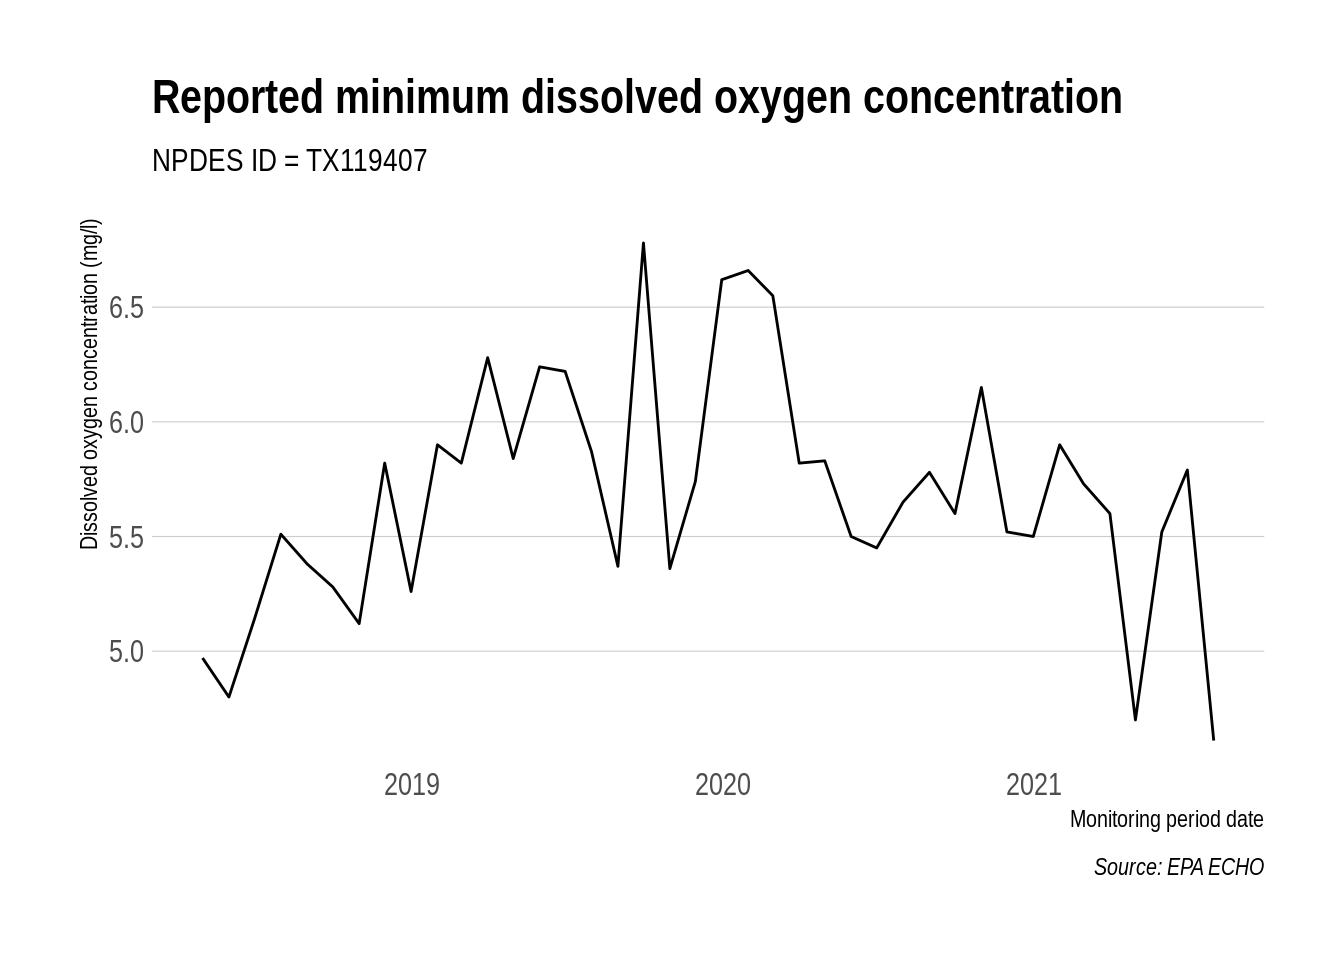
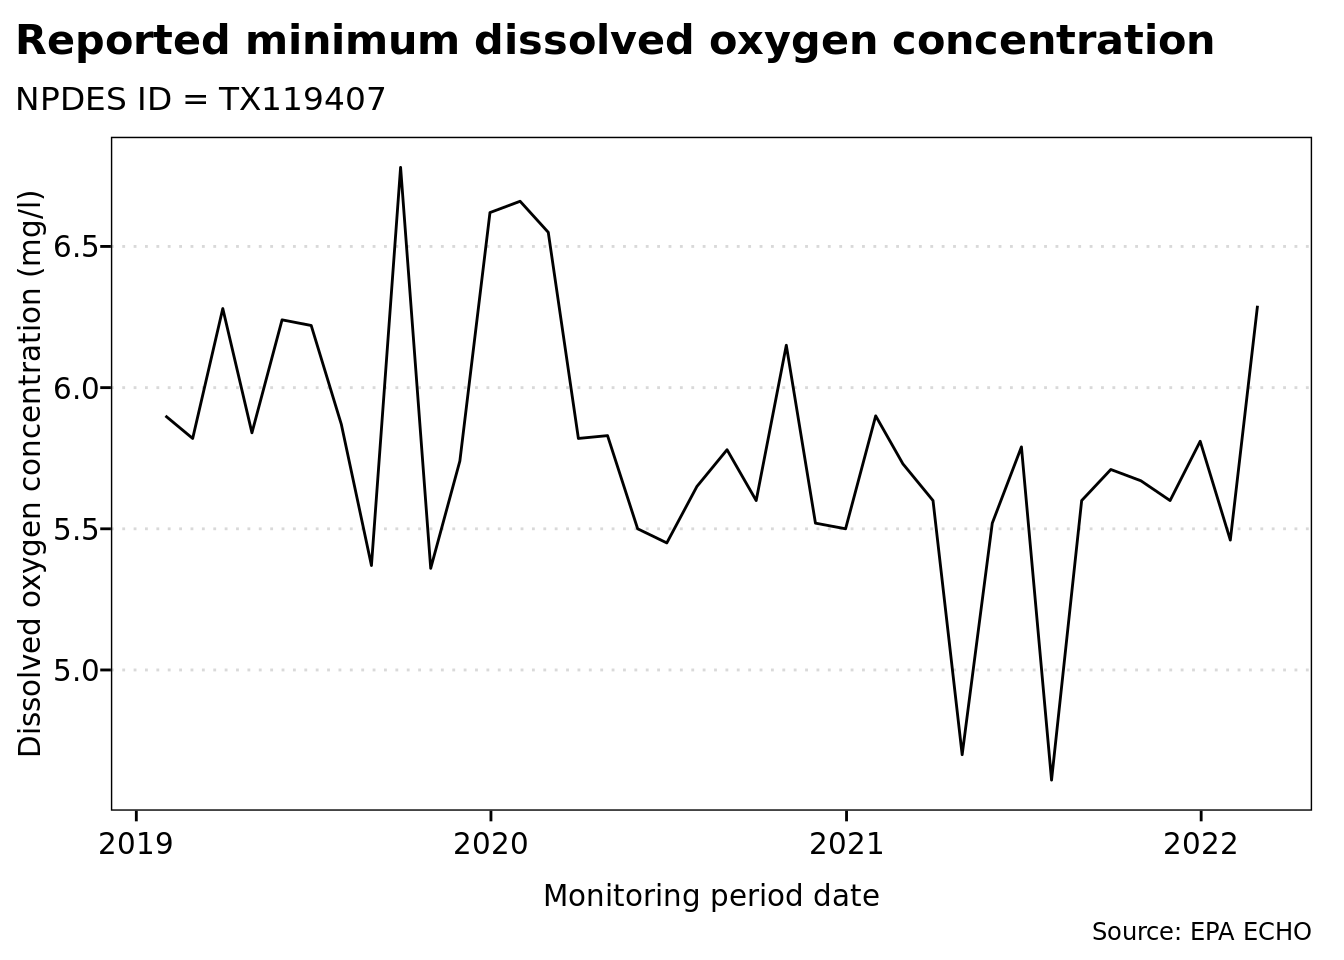
Re-build README.Rmd

diff --git a/README.md b/README.md
@@ -1,0 +1,273 @@
+<!-- README.md is generated from README.Rmd. Please edit that file -->
+
+# echor
+
+<!-- badges: start -->
+
+[![CRAN
+status](https://www.r-pkg.org/badges/version/echor)](https://cran.r-project.org/package=echor)
+
+[![R build
+status](https://github.com/mps9506/echor/workflows/R-CMD-check/badge.svg)](https://github.com/mps9506/echor/actions)
+[![Travis build
+status](https://travis-ci.org/mps9506/echor.svg?branch=master)](https://travis-ci.org/mps9506/echor)
+[![AppVeyor build
+status](https://ci.appveyor.com/api/projects/status/github/mps9506/echor?branch=master&svg=true)](https://ci.appveyor.com/project/mps9506/echor)
+[![Coverage
+status](https://codecov.io/gh/mps9506/echor/branch/master/graph/badge.svg)](https://codecov.io/github/mps9506/echor?branch=master)
+[![DOI](https://zenodo.org/badge/122131508.svg)](https://zenodo.org/badge/latestdoi/122131508)
+<!-- badges: end -->
+
+## Overview
+
+echor downloads wastewater discharge and air emission data for EPA
+permitted facilities using the [EPA ECHO API](https://echo.epa.gov/).
+
+## Installation
+
+echor is on CRAN:
+
+    install.packages("echor")
+
+Or install the development version from github:
+
+    remotes::install_github("mps9506/echor")
+
+## Usage
+
+[Getting
+started](https://mps9506.github.io/echor/articles/introduction.html)
+
+[Functions](https://mps9506.github.io/echor/reference/index.html)
+
+## Examples
+
+### Download information about facilities with an NPDES permit
+
+We can look up plants by permit id, bounding box, and numerous other
+parameters. I plan on providing documentation of available parameters.
+However, arguments can be looked up here:
+[get\_cwa\_rest\_services\_get\_facility\_info](https://echo.epa.gov/tools/web-services/facility-search-water#!/Facility_Information/get_cwa_rest_services_get_facility_info)
+
+    library(echor)
+
+    ## echoWaterGetFacilityInfo() will return a dataframe or simple features (sf) dataframe.
+
+    df <- echoWaterGetFacilityInfo(output = "df", 
+                                   xmin = '-96.387509', 
+                                   ymin = '30.583572', 
+                                   xmax = '-96.281422', 
+                                   ymax = '30.640008',
+                                   p_ptype = "NPD")
+
+    head(df)
+    #> # A tibble: 4 × 26
+    #>   CWPName            SourceID CWPStreet CWPCity CWPState CWPStateDistrict CWPZip
+    #>   <chr>              <chr>    <chr>     <chr>   <chr>    <chr>             <dbl>
+    #> 1 CARTER CREEK WWTP  TX00471… 2200 NOR… COLLEG… TX       09                77845
+    #> 2 CENTRAL UTILITY P… TX00027… 222 IREL… COLLEG… TX       09                77843
+    #> 3 HEAT TRANSFER RES… TX01065… 0.25MI S… COLLEG… TX       09                77845
+    #> 4 TURKEY CREEK WWTP  TX00624… 3000FT W… BRYAN   TX       09                77807
+    #> # … with 19 more variables: MasterExternalPermitNmbr <lgl>, RegistryID <dbl>,
+    #> #   CWPCounty <chr>, CWPEPARegion <chr>, FacDerivedHuc <dbl>, FacLat <dbl>,
+    #> #   FacLong <dbl>, CWPTotalDesignFlowNmbr <dbl>,
+    #> #   CWPActualAverageFlowNmbr <dbl>, ReceivingMs4Name <lgl>,
+    #> #   AssociatedPollutant <lgl>, MsgpPermitType <lgl>, CWPPermitStatusDesc <chr>,
+    #> #   CWPPermitTypeDesc <chr>, CWPIssueDate <date>, CWPEffectiveDate <date>,
+    #> #   CWPExpirationDate <date>, CWPSNCStatusDate <date>, …
+
+The ECHO database can provide over 270 different columns. echor returns
+a subset of these columns that should work for most users. However, you
+can specify what data you want returned. Use `echoWaterGetMeta()` to
+return a dataframe with column numbers, names, and descriptions to
+identify the columns you want returned. Then include the column numbers
+as a comma separated string in the `qcolumns` argument. In the example
+below, the `qcolumns` argument indicates the dataframe will include
+plant name, 8-digit HUC, latitude, longitude, and total design flow.
+
+    df <- echoWaterGetFacilityInfo(output = "df", 
+                                   xmin = '-96.387509', 
+                                   ymin = '30.583572', 
+                                   xmax = '-96.281422', 
+                                   ymax = '30.640008',
+                                   qcolumns = '1,14,23,24,25',
+                                   p_ptype = "NPD")
+    head(df)
+    #> # A tibble: 4 × 6
+    #>   CWPName                SourceID  FacDerivedHuc FacLat FacLong CWPTotalDesignF…
+    #>   <chr>                  <chr>             <dbl>  <dbl>   <dbl>            <dbl>
+    #> 1 CARTER CREEK WWTP      TX0047163      12070103   30.6   -96.3             9.5 
+    #> 2 CENTRAL UTILITY PLANT  TX0002747      12070103   30.6   -96.3             0.93
+    #> 3 HEAT TRANSFER RESEARCH TX0106526      12070101   30.6   -96.4            NA   
+    #> 4 TURKEY CREEK WWTP      TX0062472      12070101   30.6   -96.4             0.75
+
+When returned as sf dataframes, the data is suitable for immediate
+spatial plotting or analysis:
+
+    library(ggspatial)
+    library(sf)
+    library(ggrepel)
+    library(purrr)
+    ## This example requires the development version of ggplot with support
+    ## for geom_sf()
+    ## and uses theme_ipsum_rc() from library(hrbrthemes)
+
+
+    df <- echoWaterGetFacilityInfo(output = "sf", 
+                                   xmin = '-96.387509', 
+                                   ymin = '30.583572', 
+                                   xmax = '-96.281422', 
+                                   ymax = '30.640008',
+                                   p_ptype = "NPD")
+
+    ##to make labels, need to map the coords and use geom_text :(
+    ## can't help but think there is an easier way to do this
+
+    df <- df %>%
+      mutate(
+        coords = map(geometry, st_coordinates),
+        coords_x = map_dbl(coords, 1),
+        coords_y = map_dbl(coords, 2)
+      )
+
+    ggplot(df) +
+      annotation_map_tile(zoomin = -1, progress = "none") +
+      geom_sf(inherit.aes = FALSE, shape = 21, 
+              color = "darkred", fill = "darkred", 
+              size = 2, alpha = 0.25) +
+      geom_label_repel(data = df, aes(x = coords_x, y = coords_y, label = SourceID),
+                       point.padding = .5, min.segment.length = 0.1,
+                       size = 2, color = "dodgerblue") +
+      theme_mps_noto() +
+      labs(x = "Longitude", y = "Latitude", 
+           title = "NPDES permits near Texas A&M",
+           caption = "Source: EPA ECHO database")
+
+<img src="man/figures/README-example3-1.png" width="100%" />
+
+### Download discharge/emissions data
+
+Use `echoGetEffluent()` or `echoGetCAAPR()` to download tidy dataframes
+of permitted water discharger Discharge Monitoring Report (DMR) or
+permitted emitters Clean Air Act annual emissions reports. Please note
+that all variables are returned as *character* vectors.
+
+    df <- echoGetEffluent(p_id = 'tx0119407', parameter_code = '00300')
+
+    df <- df %>%
+      mutate(dmr_value_nmbr = as.numeric(dmr_value_nmbr),
+             monitoring_period_end_date = as.Date(monitoring_period_end_date,
+                                                  "%m/%d/%Y")) %>%
+      filter(!is.na(dmr_value_nmbr) & limit_value_type_code == "C1")
+
+    ggplot(df) +
+      geom_line(aes(monitoring_period_end_date, dmr_value_nmbr)) +
+      theme_mps_noto() +
+      labs(x = "Monitoring period date",
+           y = "Dissolved oxygen concentration (mg/l)",
+           title = "Reported minimum dissolved oxygen concentration",
+           subtitle = "NPDES ID = TX119407",
+           caption = "Source: EPA ECHO")
+
+<img src="man/figures/README-unnamed-chunk-2-1.png" width="672" />
+
+## Session Info
+
+    sessioninfo::platform_info()
+    #>  setting  value
+    #>  version  R version 4.1.3 (2022-03-10)
+    #>  os       Ubuntu 20.04.4 LTS
+    #>  system   x86_64, linux-gnu
+    #>  ui       X11
+    #>  language (EN)
+    #>  collate  C.UTF-8
+    #>  ctype    C.UTF-8
+    #>  tz       UTC
+    #>  date     2022-04-04
+    #>  pandoc   2.14.2 @ /usr/bin/ (via rmarkdown)
+    sessioninfo::package_info()
+    #>  ! package      * version    date (UTC) lib source
+    #>  P abind          1.4-5      2016-07-21 [?] CRAN (R 4.1.3)
+    #>  P bit            4.0.4      2020-08-04 [?] CRAN (R 4.1.3)
+    #>  P bit64          4.0.5      2020-08-30 [?] CRAN (R 4.1.3)
+    #>    class          7.3-20     2022-01-16 [2] CRAN (R 4.1.3)
+    #>  P classInt       0.4-3      2020-04-07 [?] CRAN (R 4.1.3)
+    #>  P cli            3.2.0      2022-02-14 [?] CRAN (R 4.1.3)
+    #>    codetools      0.2-18     2020-11-04 [2] CRAN (R 4.1.3)
+    #>    colorspace     2.0-3      2022-02-21 [1] CRAN (R 4.1.3)
+    #>  P crayon         1.5.1      2022-03-26 [?] CRAN (R 4.1.3)
+    #>  P curl           4.3.2      2021-06-23 [?] CRAN (R 4.1.3)
+    #>  P DBI            1.1.2      2021-12-20 [?] CRAN (R 4.1.3)
+    #>  P digest         0.6.29     2021-12-01 [?] CRAN (R 4.1.3)
+    #>  P dplyr        * 1.0.8      2022-02-08 [?] CRAN (R 4.1.3)
+    #>  P e1071          1.7-9      2021-09-16 [?] CRAN (R 4.1.3)
+    #>    echor        * 0.1.6.9000 2022-04-04 [1] local
+    #>  P ellipsis       0.3.2      2021-04-29 [?] CRAN (R 4.1.3)
+    #>  P evaluate       0.15       2022-02-18 [?] CRAN (R 4.1.3)
+    #>    fansi          1.0.3      2022-03-24 [1] CRAN (R 4.1.3)
+    #>  P farver         2.1.0      2021-02-28 [?] CRAN (R 4.1.3)
+    #>  P fastmap        1.1.0      2021-01-25 [?] CRAN (R 4.1.3)
+    #>  P fs             1.5.2      2021-12-08 [?] CRAN (R 4.1.3)
+    #>  P generics       0.1.2      2022-01-31 [?] CRAN (R 4.1.3)
+    #>    geojsonsf      2.0.2      2022-03-03 [1] CRAN (R 4.1.3)
+    #>  P ggplot2      * 3.3.5      2021-06-25 [?] CRAN (R 4.1.3)
+    #>  P ggrepel      * 0.9.1      2021-01-15 [?] CRAN (R 4.1.3)
+    #>  P ggspatial    * 1.1.5      2021-01-04 [?] CRAN (R 4.1.3)
+    #>  P glue           1.6.2      2022-02-24 [?] CRAN (R 4.1.3)
+    #>  P gtable         0.3.0      2019-03-25 [?] CRAN (R 4.1.3)
+    #>  P highr          0.9        2021-04-16 [?] CRAN (R 4.1.3)
+    #>  P hms            1.1.1      2021-09-26 [?] CRAN (R 4.1.3)
+    #>  P htmltools      0.5.2      2021-08-25 [?] CRAN (R 4.1.3)
+    #>  P httr           1.4.2      2020-07-20 [?] CRAN (R 4.1.3)
+    #>  P jsonlite       1.8.0      2022-02-22 [?] CRAN (R 4.1.3)
+    #>    KernSmooth     2.23-20    2021-05-03 [2] CRAN (R 4.1.3)
+    #>  P knitr          1.38       2022-03-25 [?] CRAN (R 4.1.3)
+    #>  P labeling       0.4.2      2020-10-20 [?] CRAN (R 4.1.3)
+    #>    lattice        0.20-45    2021-09-22 [2] CRAN (R 4.1.3)
+    #>  P lifecycle      1.0.1      2021-09-24 [?] CRAN (R 4.1.3)
+    #>    magrittr       2.0.3      2022-03-30 [1] CRAN (R 4.1.3)
+    #>  P mpsTemplates * 0.1.0      2022-04-04 [?] Github (mps9506/mps-templates@ee2d639)
+    #>  P munsell        0.5.0      2018-06-12 [?] CRAN (R 4.1.3)
+    #>  P pillar         1.7.0      2022-02-01 [?] CRAN (R 4.1.3)
+    #>  P pkgconfig      2.0.3      2019-09-22 [?] CRAN (R 4.1.3)
+    #>    plyr           1.8.7      2022-03-24 [1] CRAN (R 4.1.3)
+    #>  P png            0.1-7      2013-12-03 [?] CRAN (R 4.1.3)
+    #>  P prettymapr     0.2.2      2017-09-20 [?] CRAN (R 4.1.3)
+    #>  P proxy          0.4-26     2021-06-07 [?] CRAN (R 4.1.3)
+    #>  P purrr        * 0.3.4      2020-04-17 [?] CRAN (R 4.1.3)
+    #>  P R6             2.5.1      2021-08-19 [?] CRAN (R 4.1.3)
+    #>    raster         3.5-15     2022-01-22 [1] CRAN (R 4.1.3)
+    #>  P Rcpp           1.0.8.3    2022-03-17 [?] CRAN (R 4.1.3)
+    #>  P readr          2.1.2      2022-01-30 [?] CRAN (R 4.1.3)
+    #>  P renv           0.15.1     2022-01-13 [?] CRAN (R 4.1.3)
+    #>    rgdal          1.5-29     2022-03-16 [1] CRAN (R 4.1.3)
+    #>  P rlang          1.0.2      2022-03-04 [?] CRAN (R 4.1.3)
+    #>  P rmarkdown      2.13       2022-03-10 [?] CRAN (R 4.1.3)
+    #>  P rosm           0.2.5      2019-07-22 [?] CRAN (R 4.1.3)
+    #>  P s2             1.0.7      2021-09-28 [?] CRAN (R 4.1.3)
+    #>  P scales         1.1.1      2020-05-11 [?] CRAN (R 4.1.3)
+    #>  P sessioninfo    1.2.2      2021-12-06 [?] CRAN (R 4.1.3)
+    #>    sf           * 1.0-7      2022-03-07 [1] CRAN (R 4.1.3)
+    #>  P sp             1.4-6      2021-11-14 [?] CRAN (R 4.1.3)
+    #>  P stringi        1.7.6      2021-11-29 [?] CRAN (R 4.1.3)
+    #>  P stringr        1.4.0      2019-02-10 [?] CRAN (R 4.1.3)
+    #>    systemfonts    1.0.4      2022-02-11 [1] CRAN (R 4.1.3)
+    #>    terra          1.5-21     2022-02-17 [1] CRAN (R 4.1.3)
+    #>  P tibble         3.1.6      2021-11-07 [?] CRAN (R 4.1.3)
+    #>  P tidyr          1.2.0      2022-02-01 [?] CRAN (R 4.1.3)
+    #>  P tidyselect     1.1.2      2022-02-21 [?] CRAN (R 4.1.3)
+    #>    tzdb           0.3.0      2022-03-28 [1] CRAN (R 4.1.3)
+    #>    units          0.8-0      2022-02-05 [1] CRAN (R 4.1.3)
+    #>  P utf8           1.2.2      2021-07-24 [?] CRAN (R 4.1.3)
+    #>    vctrs          0.4.0      2022-03-30 [1] CRAN (R 4.1.3)
+    #>  P vroom          1.5.7      2021-11-30 [?] CRAN (R 4.1.3)
+    #>  P withr          2.5.0      2022-03-03 [?] CRAN (R 4.1.3)
+    #>  P wk             0.6.0      2022-01-03 [?] CRAN (R 4.1.3)
+    #>  P xfun           0.30       2022-03-02 [?] CRAN (R 4.1.3)
+    #>  P xml2           1.3.3      2021-11-30 [?] CRAN (R 4.1.3)
+    #>  P yaml           2.3.5      2022-02-21 [?] CRAN (R 4.1.3)
+    #> 
+    #>  [1] /home/runner/.cache/R/renv/library/echor-4ec080d0/R-4.1/x86_64-pc-linux-gnu
+    #>  [2] /opt/R/4.1.3/lib/R/library
+    #> 
+    #>  P ── Loaded and on-disk path mismatch.
